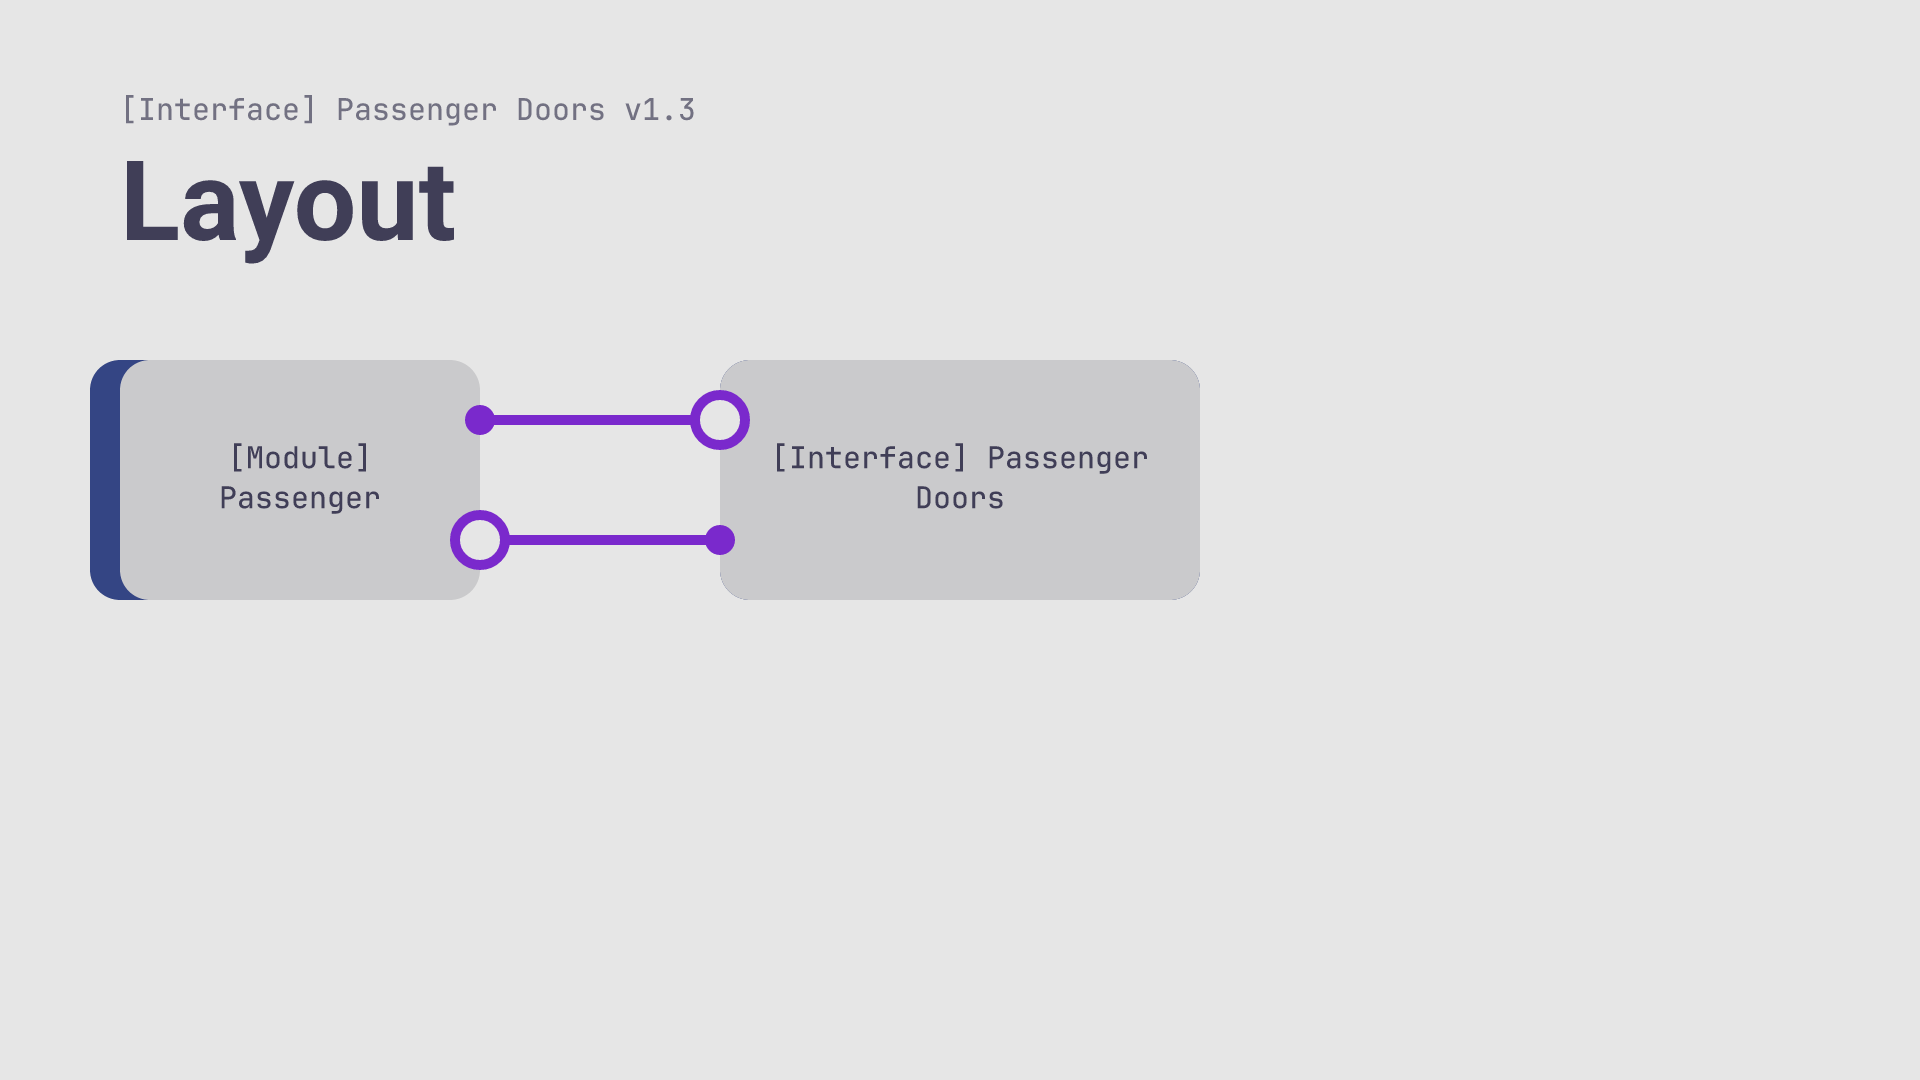
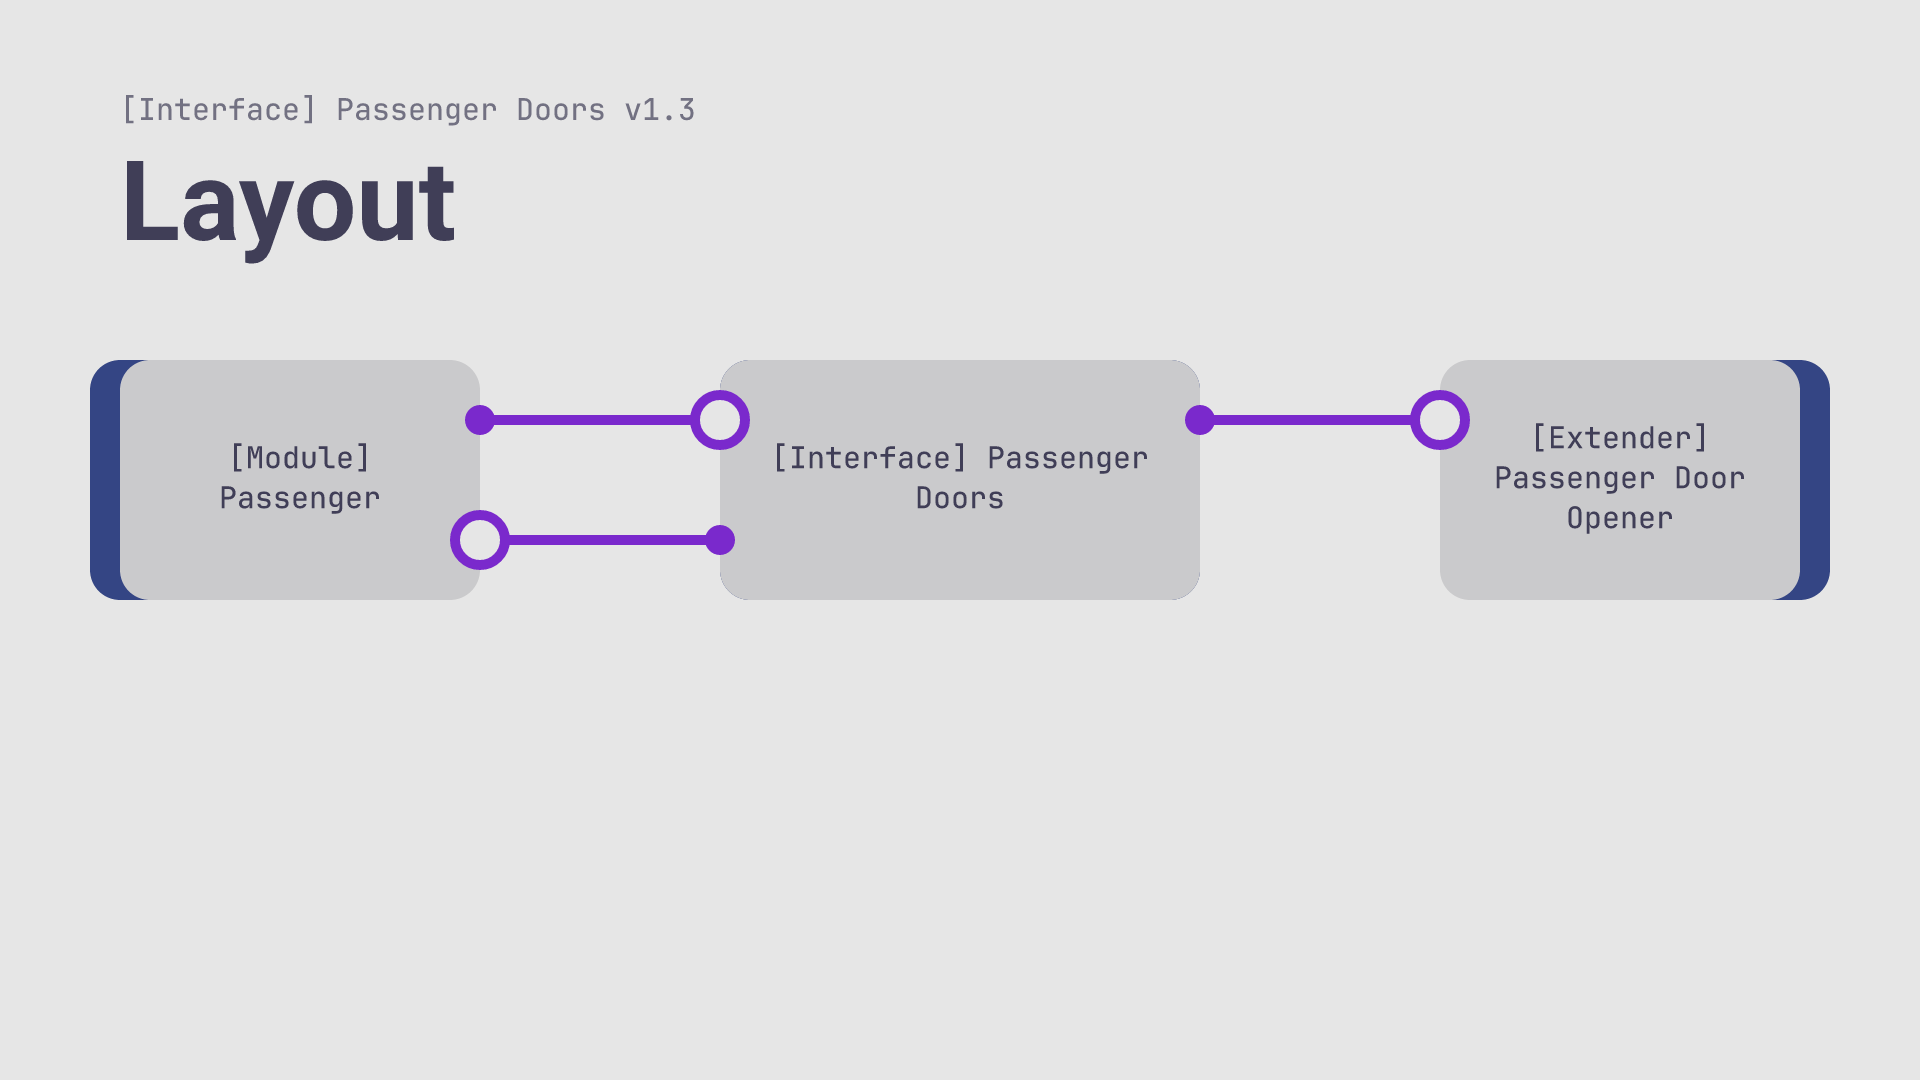
updated infographics and database

Changed region(s): [[0.5938, 0.3361, 0.9688, 0.5806]]

diff --git a/UpdateUtility/updateUtility.js b/UpdateUtility/updateUtility.js
@@ -90,6 +90,7 @@ async function execDatabase() {
 			let desc = n["@_description"] || ""
 			let mode = n["@_mode"] === "1"
 			let type = Number(n["@_type"]) || 0
+			// TODO: improve handling of automatic channel documentation generation (option for manual + check common too) or smth like that
 			let channels = [c.group + "." + c.nameData.name.replaceAll(" ", ""), c.group, "Any"].map(d => (c => (database.connections.primary[c] ?? database.connections.redirects[c]) ? c : undefined)(d + "#" + label.replaceAll(" ", ""))).reduce((p, c) => p ?? c, undefined)
 			if (channels) n["@_description"] = placeholders(n["@_description"] + " // {$c" + (mode ? "i" : "o") + channels + "}")
 			nodes.push({
@@ -285,7 +286,7 @@ async function execExport(index) {
 		let pushChannels = type => {
 			groups[domain].header2 += "," + type
 			for (let i = 0; i < 32; i++) {
-				groups[domain].entries[i] += "," + (channels[type][i+1]?.label ?? "")
+				groups[domain].entries[i] += "," + "\"" + (channels[type][i+1]?.label ?? "") + "\""
 			}
 		}
 
